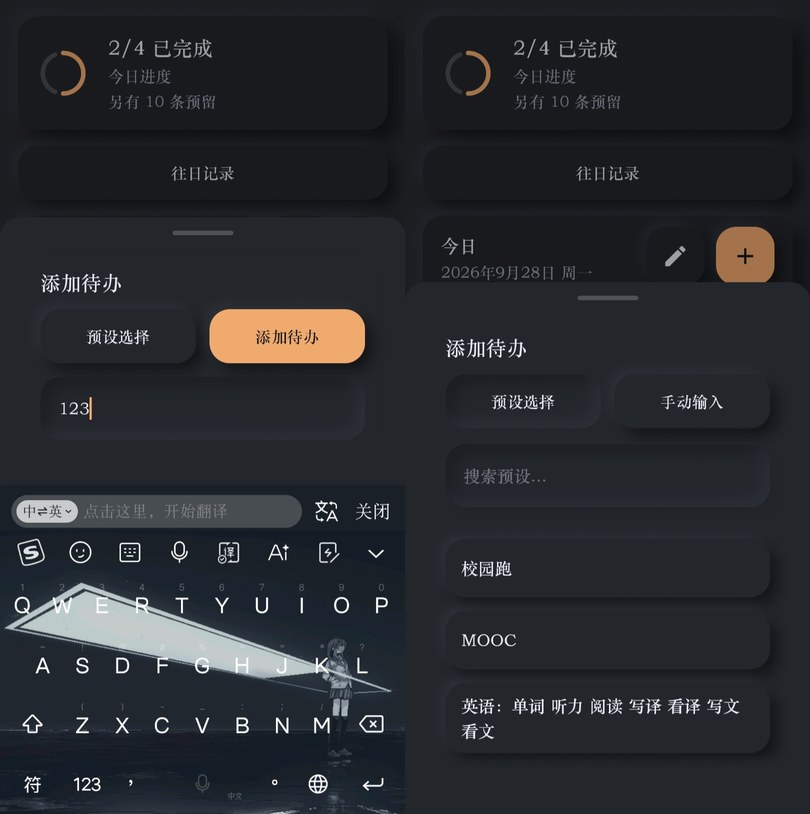
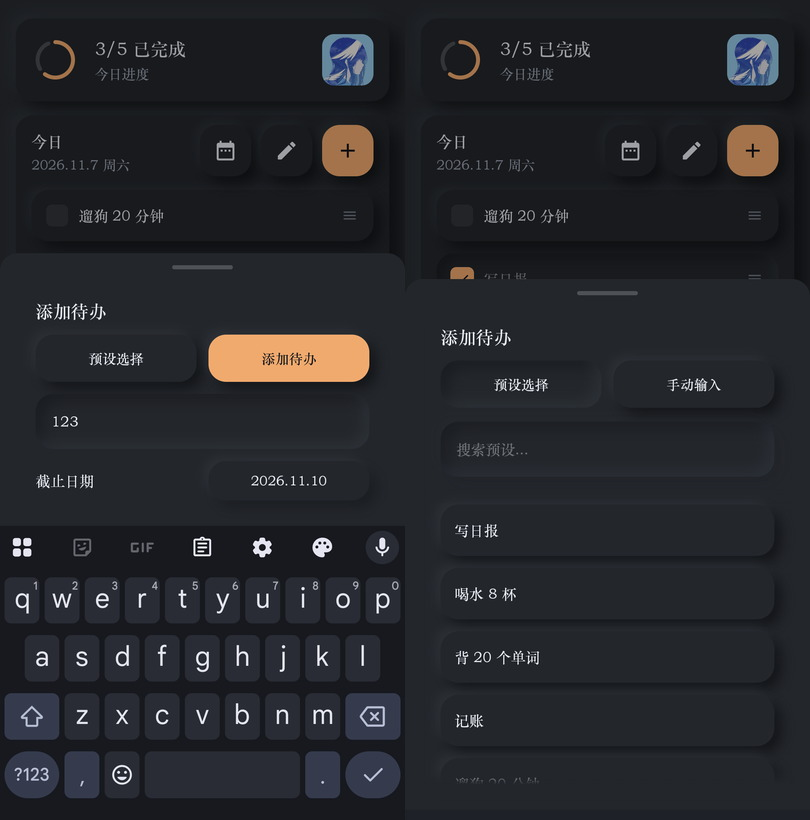
Refresh the README screenshots for the new home and add sheet
Re-captured from the v1.4.4 build (dark theme, plus a light half for home):

- home-light-dark.jpg: three square icon buttons (history / note / add) at the
  top-right of the today card instead of the full-width "past records" bar, and
  the dotted date.
- addsheet-dark.jpg: the new 截止日期 row (with a picked date) on the left and
  the preset list on the right.
- press-dark.gif: checking a todo -- the row sinks, the line is drawn and the
  progress ring follows (15 frames, same 540x1093 framing as before).
- README: the add-sheet caption now mentions the due date.

deadline/stats/presets/recyclebin/note/settings are unchanged UIs, so their
images stay as they are.

diff --git a/README.md b/README.md
@@ -57,7 +57,7 @@ Kotlin 2.2 · Jetpack Compose · Room · 纯本地存储 · 零权限
 
 <img src="docs/screenshots/home-light-dark.jpg" width="420" alt="今日待办">
 
-**添加待办**：左侧手动输入、右侧预设选择；输入框一有内容，右侧按钮就直接变成「添加待办」
+**添加待办**：左侧手动输入（可以顺手设截止日期、加完自动清空）、右侧预设选择；输入框一有内容，右侧按钮就直接变成「添加待办」
 
 <img src="docs/screenshots/addsheet-dark.jpg" width="420" alt="添加待办">
 
